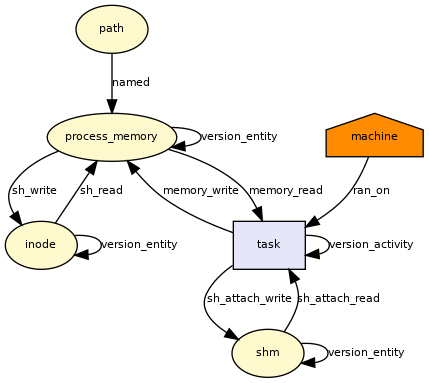
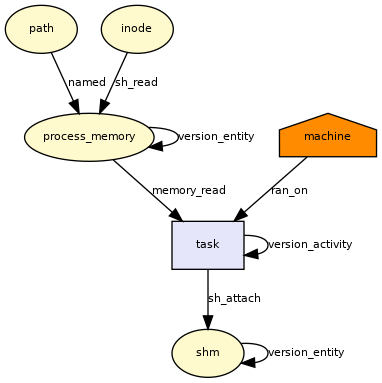
RL_SH_ATTACH_READ & RL_SH_ATTACH_WRITE -> RL_SH_ATTACH

diff --git a/include/uapi/linux/provenance_types.h b/include/uapi/linux/provenance_types.h
@@ -97,8 +97,8 @@
 #define RL_SHMDT                                (RL_GENERATED | (0x0000000000000001ULL << 22))
 #define RL_SETUID                               (RL_GENERATED | (0x0000000000000001ULL << 23))
 #define RL_SETGID                               (RL_GENERATED | (0x0000000000000001ULL << 24))
-#define RL_SH_ATTACH_WRITE                      (RL_GENERATED | (0x0000000000000001ULL << 25))
-#define RL_SH_CREATE                                            (RL_GENERATED | (0x0000000000000001ULL << 26))
+#define RL_SH_ATTACH                                                    (RL_GENERATED | (0x0000000000000001ULL << 25))
+#define RL_SH_CREATE                            (RL_GENERATED | (0x0000000000000001ULL << 26))
 #define RL_FILE_LOCK                            (RL_GENERATED | (0x0000000000000001ULL << 27))
 #define RL_MUNMAP                               (RL_GENERATED | (0x0000000000000001ULL << 28))
 #define RL_SPLICE_OUT                           (RL_GENERATED | (0x0000000000000001ULL << 29))
@@ -128,18 +128,17 @@
 #define RL_PERM_WRITE                           (RL_USED        | (0x0000000000000001ULL << 17))
 #define RL_PERM_EXEC                            (RL_USED        | (0x0000000000000001ULL << 18))
 #define RL_PERM_APPEND                          (RL_USED        | (0x0000000000000001ULL << 19))
-#define RL_SH_ATTACH_READ                       (RL_USED        | (0x0000000000000001ULL << 20))
-#define RL_GETGID                               (RL_USED        | (0x0000000000000001ULL << 21))
-#define RL_SPLICE_IN                            (RL_USED        | (0x0000000000000001ULL << 22))
-#define RL_MMAP_READ                            (RL_USED        | (0x0000000000000001ULL << 23))
-#define RL_MMAP_EXEC                            (RL_USED        | (0x0000000000000001ULL << 24))
-#define RL_MMAP_WRITE                           (RL_USED        | (0x0000000000000001ULL << 25))
-#define RL_MMAP_READ_PRIVATE                    (RL_USED        | (0x0000000000000001ULL << 26))
-#define RL_MMAP_EXEC_PRIVATE                    (RL_USED        | (0x0000000000000001ULL << 27))
-#define RL_MMAP_WRITE_PRIVATE                   (RL_USED        | (0x0000000000000001ULL << 28))
-#define RL_LOAD_FILE                            (RL_USED        | (0x0000000000000001ULL << 29))
-#define RL_PTRACE_READ                          (RL_USED        | (0x0000000000000001ULL << 30))
-#define RL_USED_DISC                            (RL_USED        | (0x0000000000000001ULL << 31))
+#define RL_GETGID                               (RL_USED        | (0x0000000000000001ULL << 20))
+#define RL_SPLICE_IN                            (RL_USED        | (0x0000000000000001ULL << 21))
+#define RL_MMAP_READ                            (RL_USED        | (0x0000000000000001ULL << 22))
+#define RL_MMAP_EXEC                            (RL_USED        | (0x0000000000000001ULL << 23))
+#define RL_MMAP_WRITE                           (RL_USED        | (0x0000000000000001ULL << 24))
+#define RL_MMAP_READ_PRIVATE                    (RL_USED        | (0x0000000000000001ULL << 25))
+#define RL_MMAP_EXEC_PRIVATE                    (RL_USED        | (0x0000000000000001ULL << 26))
+#define RL_MMAP_WRITE_PRIVATE                   (RL_USED        | (0x0000000000000001ULL << 27))
+#define RL_LOAD_FILE                            (RL_USED        | (0x0000000000000001ULL << 28))
+#define RL_PTRACE_READ                          (RL_USED        | (0x0000000000000001ULL << 29))
+#define RL_USED_DISC                            (RL_USED        | (0x0000000000000001ULL << 30))
 /* no more than 51!!!! */
 
 /* INFORMED SUBTYPES */

diff --git a/security/provenance/type.c b/security/provenance/type.c
@@ -97,8 +97,7 @@ static const char RL_STR_FREED[] = "free";                                      
 static const char RL_STR_ARG[] = "arg";                                                                 // connect arg value to process
 static const char RL_STR_ENV[] = "env";                                                                 // connect env value to process
 static const char RL_STR_LOG[] = "log";                                                                 // connect string to task
-static const char RL_STR_SH_ATTACH_READ[] = "sh_attach_read";                                           // attach sh with read perm
-static const char RL_STR_SH_ATTACH_WRITE[] = "sh_attach_write";                                         // attach sh with write perm
+static const char RL_STR_SH_ATTACH[] = "sh_attach";                                                     // attach sh
 static const char RL_STR_SH_CREATE[] = "sh_create";                                                     // sh create perm
 static const char RL_STR_LOAD_FILE[] = "load_file";                                                     // load file into kernel
 static const char RL_STR_RAN_ON[] = "ran_on";                                                           // task run on this machine
@@ -317,10 +316,8 @@ const char *relation_str(uint64_t type)
 		return RL_STR_ENV;
 	case RL_LOG:
 		return RL_STR_LOG;
-	case RL_SH_ATTACH_READ:
-		return RL_STR_SH_ATTACH_READ;
-	case RL_SH_ATTACH_WRITE:
-		return RL_STR_SH_ATTACH_WRITE;
+	case RL_SH_ATTACH:
+		return RL_STR_SH_ATTACH;
 	case RL_SH_CREATE:
 		return RL_STR_SH_CREATE;
 	case RL_LOAD_FILE:
@@ -454,8 +451,7 @@ uint64_t relation_id(const char *str)
 	MATCH_AND_RETURN(str, RL_STR_ARG, RL_ARG);
 	MATCH_AND_RETURN(str, RL_STR_ENV, RL_ENV);
 	MATCH_AND_RETURN(str, RL_STR_LOG, RL_LOG);
-	MATCH_AND_RETURN(str, RL_STR_SH_ATTACH_READ, RL_SH_ATTACH_READ);
-	MATCH_AND_RETURN(str, RL_STR_SH_ATTACH_WRITE, RL_SH_ATTACH_WRITE);
+	MATCH_AND_RETURN(str, RL_STR_SH_ATTACH, RL_SH_ATTACH);
 	MATCH_AND_RETURN(str, RL_STR_SH_CREATE, RL_SH_CREATE);
 	MATCH_AND_RETURN(str, RL_STR_LOAD_FILE, RL_LOAD_FILE);
 	MATCH_AND_RETURN(str, RL_STR_LOAD_UNKNOWN, RL_LOAD_UNKNOWN);

diff --git a/security/provenance/hooks.c b/security/provenance/hooks.c
@@ -1919,15 +1919,7 @@ static int provenance_shm_shmat(struct kern_ipc_perm *shp, char __user *shmaddr,
 		return -ENOMEM;
 	spin_lock_irqsave_nested(prov_lock(cprov), irqflags, PROVENANCE_LOCK_PROC);
 	spin_lock_nested(prov_lock(sprov), PROVENANCE_LOCK_SHM);
-	if (shmflg & SHM_RDONLY)
-		rc = uses(RL_SH_ATTACH_READ, sprov, tprov, cprov, NULL, shmflg);
-	else {
-		rc = uses(RL_SH_ATTACH_READ, sprov, tprov, cprov, NULL, shmflg);
-		if (rc < 0)
-			goto out;
-		rc = generates(RL_SH_ATTACH_WRITE, cprov, tprov, sprov, NULL, shmflg);
-	}
-out:
+	rc = generates(RL_SH_ATTACH, cprov, tprov, sprov, NULL, shmflg);
 	spin_unlock(prov_lock(sprov));
 	spin_unlock_irqrestore(prov_lock(cprov), irqflags);
 	return rc;

diff --git a/docs/RELATIONS.md b/docs/RELATIONS.md
@@ -85,8 +85,7 @@ RL_FREED|free|created when an inode is freed|
 RL_ARG|arg|connect arg value to process|
 RL_ENV|env|connect env value to process|
 RL_LOG|log|connect string to task|
-RL_SH_ATTACH_READ|sh_attach_read|attach sh with read perm|
-RL_SH_ATTACH_WRITE|sh_attach_write|attach sh with write perm|
+RL_SH_ATTACH|sh_attach|attach sh|
 RL_SH_CREATE|sh_create|sh create perm|
 RL_LOAD_FILE|load_file|load file into kernel|
 RL_RAN_ON|ran_on|task run on this machine|

diff --git a/CHANGES.md b/CHANGES.md
@@ -58,6 +58,7 @@
 ```
 - Simplify relations that can be inferred from the flag attributes
 -- RL_SH_CREATE_READ & RL_SH_CREATE_WRITE -> RL_SH_CREATE
+-- RL_SH_ATTACH_READ & RL_SH_ATTACH_WRITE -> RL_SH_ATTACH
 - Protect epoch update with RCU.
 - Epoch starts from zero instead of one (0 before daemon, 1 after daemon start).
 - Consider node version for edge compression.
